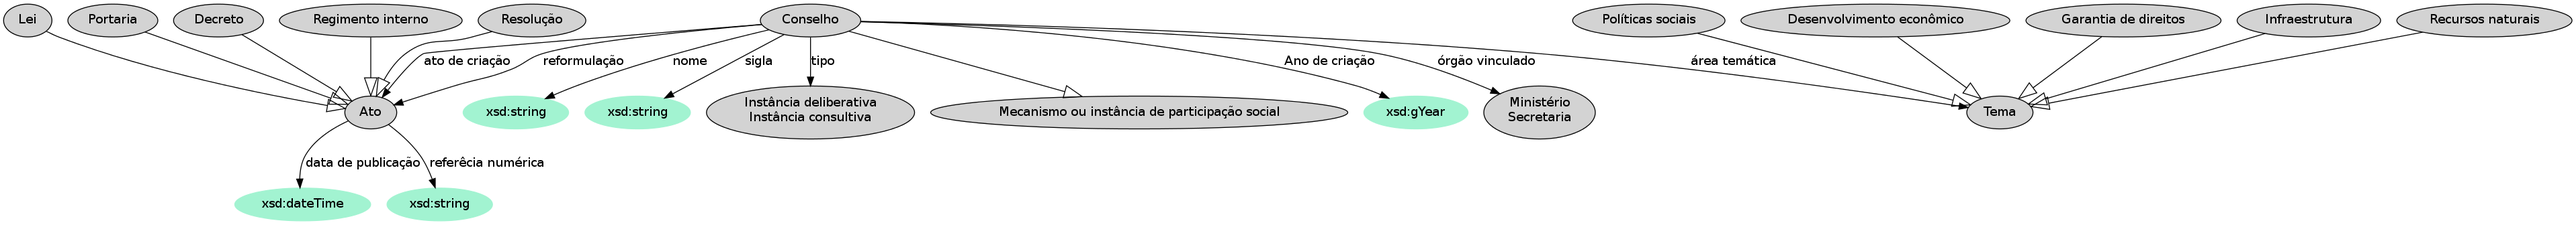
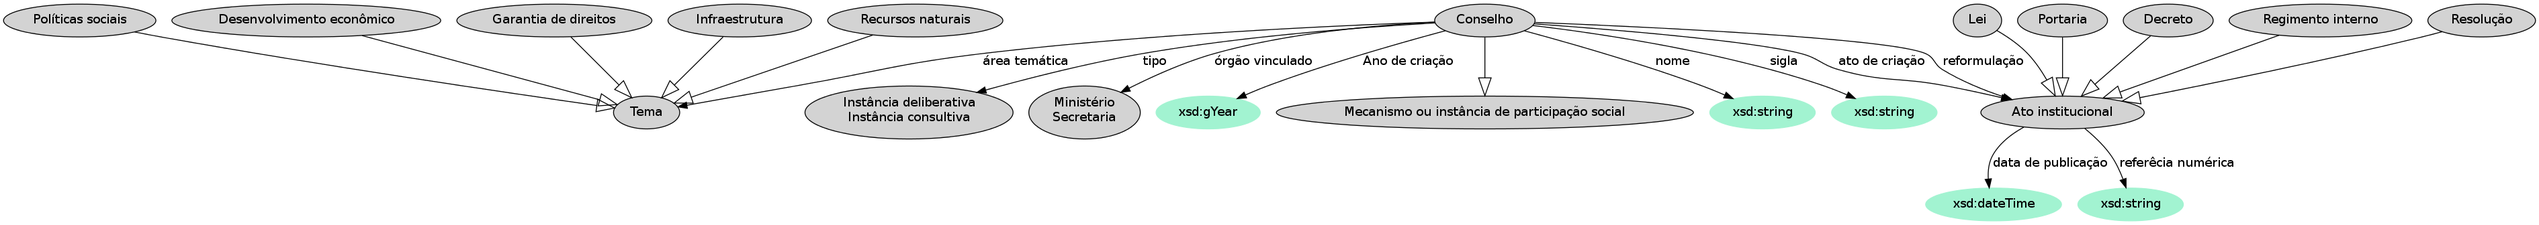
feita primeira parte da obs e vbs

diff --git a/scripts/vbsConselhos.py b/scripts/vbsConselhos.py
@@ -31,15 +31,114 @@ G(pm,skos.altLabel,L("Mecanismo de participação social",lang="pt"))
 G(pm,skos.altLabel,L("Instância de participação social",lang="pt"))
 G(cons,skos.broader,pm)
 
-mn=obs.Ministry
+mn=vbs.Ministry
 lmn=u"Ministério" # entra no SKOS
 G(mn,rdf.type,skos.Concept)
 G(mn,skos.prefLabel,L(lmn,lang="pt"))
 
-sc=obs.Secretariat
+sc=vbs.Secretariat
 lsc=u"Secretaria" # entra no SKOS
 G(sc,rdf.type,skos.Concept)
 G(sc,skos.prefLabel,L(lsc,lang="pt"))
+G(sc,skos.broader,mn)
+
+####
+ac=vbs.Act
+lac=u"Ato institucional" # SKOS Ato Institucional
+G(ac,rdf.type,skos.Concept)
+G(ac,skos.prefLabel,L(lac,lang="pt"))
+
+####
+la=vbs.Law
+lla=u"Lei" # SKOS
+G(la,rdf.type,skos.Concept)
+G(la,skos.prefLabel,L(lla,lang="pt"))
+G(la,skos.broader,ac)
+
+oe=vbs.Ordinance
+loe=u"Portaria" # SKOS
+G(oe,rdf.type,skos.Concept)
+G(oe,skos.prefLabel,L(loe,lang="pt"))
+G(oe,skos.broader,ac)
+
+de=vbs.Decree
+lde=u"Decreto" # SKOS
+G(de,rdf.type,skos.Concept)
+G(de,skos.prefLabel,L(lde,lang="pt"))
+G(de,skos.broader,ac)
+
+bl=vbs.Bylaws
+lbl=u"Regimento interno" #SKOS
+G(bl,rdf.type,skos.Concept)
+G(bl,skos.prefLabel,L(lbl,lang="pt"))
+G(bl,skos.broader,ac)
+
+re=vbs.Resolution
+lre=u"Resolução" #SKOS
+G(re,rdf.type,skos.Concept)
+G(re,skos.prefLabel,L(lre,lang="pt"))
+G(re,skos.broader,ac)
+
+###
+re=vbs.reformulation # menor pq eh propriedade na obs
+lre=u"Reformulação" #SKOS
+G(re,rdf.type,skos.Concept)
+G(re,skos.prefLabel,L(lre,lang="pt"))
+
+### TTM
+ta=vbs.thematicArea
+lta=u"área temática" # SKOS
+G(ta,rdf.type,skos.Concept)
+G(ta,skos.prefLabel,L(lta,lang="pt"))
+
+sp=vbs.SocialPolicies
+lsp=u"Políticas sociais" # SKOS TTM
+G(sp,rdf.type,skos.Concept)
+G(sp,skos.prefLabel,L(lsp,lang="pt"))
+G(sp,skos.scopeNote,L(u"assistência social, cultura, saúde, segurança alimentar e nutricional",lang="pt"))
+G(sp,skos.broader,ta)
+
+sp=vbs.EconomicDevelopment ###
+lsp=u"Desenvolvimento econômico" # SKOS
+G(sp,rdf.type,skos.Concept)
+G(sp,skos.prefLabel,L(lsp,lang="pt"))
+G(sp,skos.scopeNote,L(u"arranjos produtivos locais, assistência técnica e extensão rural, desenvolvimento regional e desenvolvimento rural sustentável e solidário",lang="pt"))
+G(sp,skos.broader,ta)
+
+sp=vbs.GuaranteeOfRights ###
+lsp=u"Garantia de direitos" # SKOS
+G(sp,rdf.type,skos.Concept)
+G(sp,skos.prefLabel,L(lsp,lang="pt"))
+G(sp,skos.scopeNote,L(u"criança e adolescente, educação, juventude, LGBT, mulheres e pessoa idosa",lang="pt"))
+G(sp,skos.broader,ta)
+
+sp=vbs.Infrastructure ###
+lsp=u"Infraestrutura" # SKOS
+G(sp,rdf.type,skos.Concept)
+G(sp,skos.prefLabel,L(lsp,lang="pt"))
+G(sp,skos.scopeNote,L(u"cidades",lang="pt"))
+G(sp,skos.broader,ta)
+
+sp=vbs.NaturalResources ###
+lsp=u"Recursos naturais" # SKOS
+G(sp,rdf.type,skos.Concept)
+G(sp,skos.prefLabel,L(lsp,lang="pt"))
+G(sp,skos.scopeNote,L(u"Recursos naturais",lang="pt"))
+G(sp,skos.broader,ta)
+
+
+######
+sp=obs.DeliberativeInstance
+lsp=u"Instância deliberativa" # SKOS
+G(sp,rdf.type,skos.Concept)
+G(sp,skos.prefLabel,L(lsp,lang="pt"))
+G(sp,skos.broader,vbs.ParticipationMechanism)
+
+sp=obs.AdvisoryInstance
+lsp=u"Instância consultiva" # SKOS
+G(sp,rdf.type,skos.Concept)
+G(sp,skos.prefLabel,L(lsp,lang="pt"))
+G(sp,skos.broader,vbs.ParticipationMechanism)
 
 
 

diff --git a/scripts/obsConselhos.py b/scripts/obsConselhos.py
@@ -104,11 +104,11 @@ A.add_edge(lcons,COUNT)
 e=A.get_edge(lcons,COUNT); COUNT+=1
 e.attr["label"]=lyc
 
-###########
+########### PPP
 ca=obs.creationAct
 lca=u"ato de criação"
 ac=obs.Act
-lac=u"Ato" # Talvez colocar no SKOS Ato Participativo ou Ato Institucional
+lac=u"Ato institucional" # SKOS Ato Institucional
 
 pu=obs.datePublished
 lpu=u"data de publicação"
@@ -213,7 +213,7 @@ e=A.get_edge(lcons,lac)
 e.attr["label"]=lre
 ###########
 ta=obs.thematicArea
-lta=u"área temática"
+lta=u"área temática" # SKOS
 th=obs.Theme
 lth=u"Tema"
 G(ta,rdf.type,owl.ObjectProperty)
@@ -228,7 +228,7 @@ e.attr["label"]=lta
 
 
 sp=obs.SocialPolicies
-lsp=u"Políticas sociais"
+lsp=u"Políticas sociais" # SKOS TTM
 G(sp,rdf.type,owl.Class)
 G(sp,rdfs.label,L(lsp,lang="pt"))
 G(sp,rdfs.comment,L(u"assistência social, cultura, saúde, segurança alimentar e nutricional",lang="pt"))
@@ -240,7 +240,7 @@ e.attr["arrowhead"]="empty"
 e.attr["arrowsize"]=2
 
 sp=obs.EconomicDevelopment ###
-lsp=u"Desenvolvimento econômico"
+lsp=u"Desenvolvimento econômico" # SKOS
 G(sp,rdf.type,owl.Class)
 G(sp,rdfs.label,L(lsp,lang="pt"))
 G(sp,rdfs.comment,L(u"arranjos produtivos locais, assistência técnica e extensão rural, desenvolvimento regional e desenvolvimento rural sustentável e solidário",lang="pt"))
@@ -252,7 +252,7 @@ e.attr["arrowhead"]="empty"
 e.attr["arrowsize"]=2
 
 sp=obs.GuaranteeOfRights ###
-lsp=u"Garantia de direitos"
+lsp=u"Garantia de direitos" # SKOS
 G(sp,rdf.type,owl.Class)
 G(sp,rdfs.label,L(lsp,lang="pt"))
 G(sp,rdfs.comment,L(u"criança e adolescente, educação, juventude, LGBT, mulheres e pessoa idosa",lang="pt"))
@@ -264,7 +264,7 @@ e.attr["arrowhead"]="empty"
 e.attr["arrowsize"]=2
 
 sp=obs.Infrastructure ###
-lsp=u"Infraestrutura"
+lsp=u"Infraestrutura" # SKOS
 G(sp,rdf.type,owl.Class)
 G(sp,rdfs.label,L(lsp,lang="pt"))
 G(sp,rdfs.comment,L(u"cidades",lang="pt"))
@@ -276,7 +276,7 @@ e.attr["arrowhead"]="empty"
 e.attr["arrowsize"]=2
 
 sp=obs.NaturalResources ###
-lsp=u"Recursos naturais"
+lsp=u"Recursos naturais" # SKOS
 G(sp,rdf.type,owl.Class)
 G(sp,rdfs.label,L(lsp,lang="pt"))
 G(sp,rdfs.comment,L(u"meio ambiente",lang="pt"))
@@ -292,9 +292,9 @@ e.attr["arrowsize"]=2
 ti=obs.type
 lti=u"tipo"
 de=obs.DeliberativeInstance
-lde=u"Instância deliberativa"
+lde=u"Instância deliberativa" # SKOS
 co=obs.AdvisoryInstance
-lco=u"Instância consultiva"
+lco=u"Instância consultiva" # SKOS
 
 G(ti,rdf.type,owl.ObjectProperty)
 G(ti,rdfs.label,L(lti,lang="pt"))
